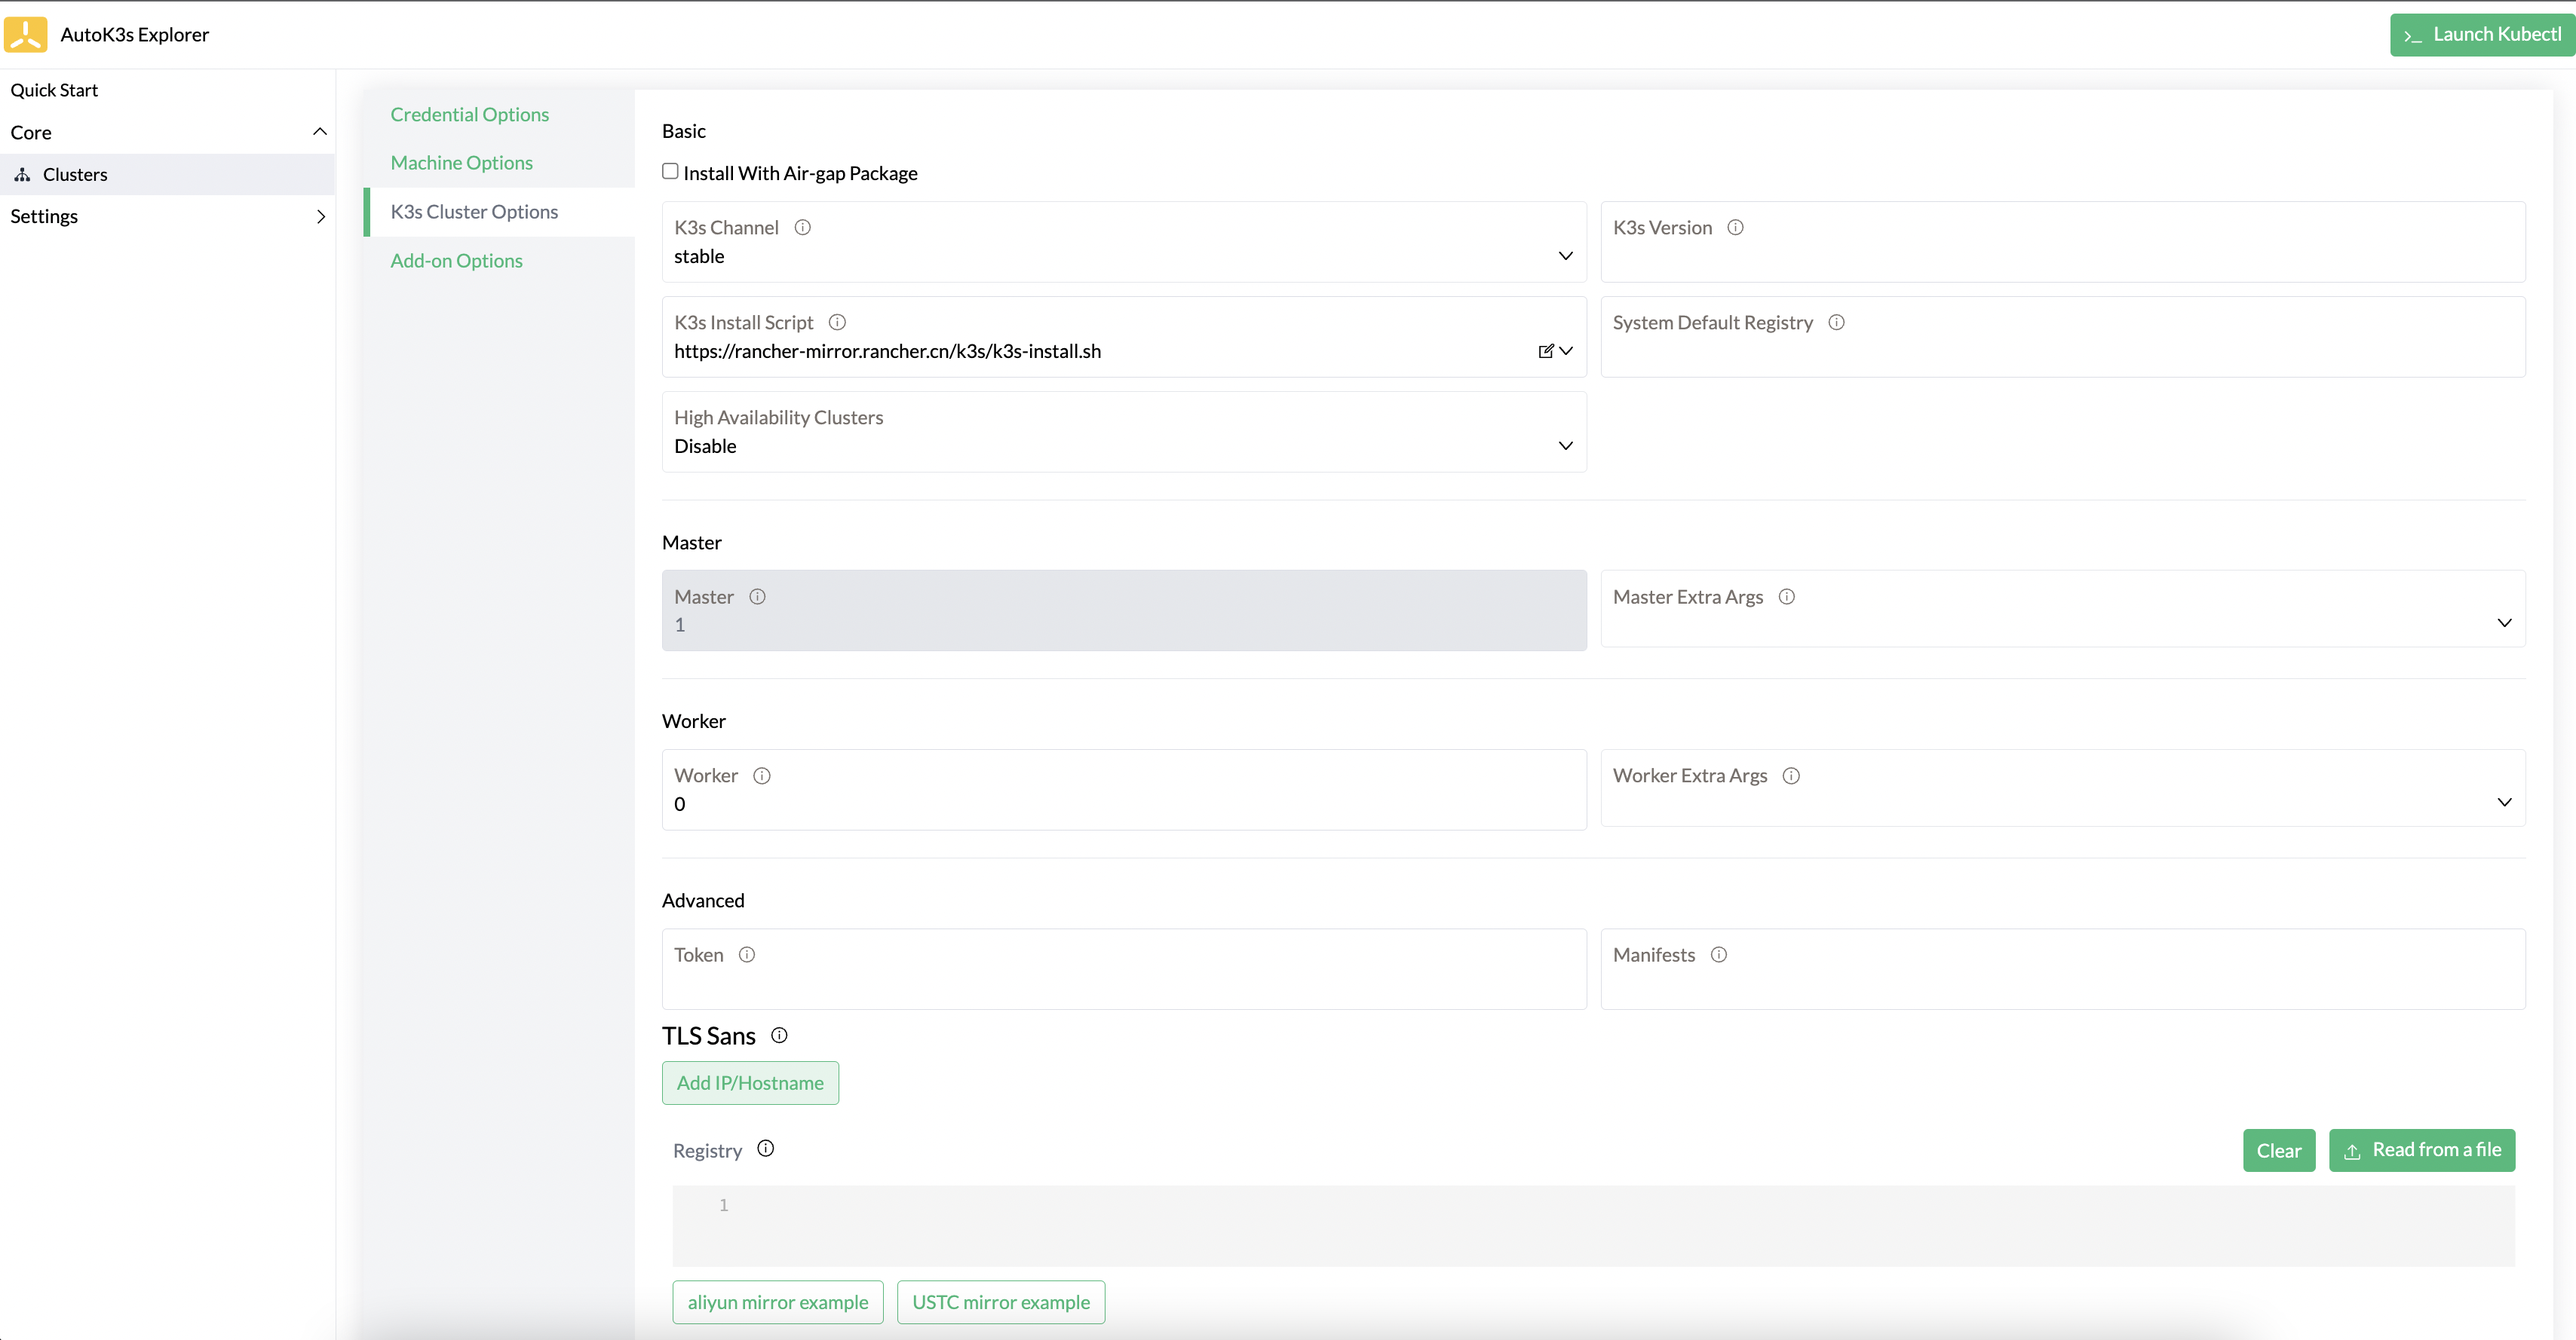
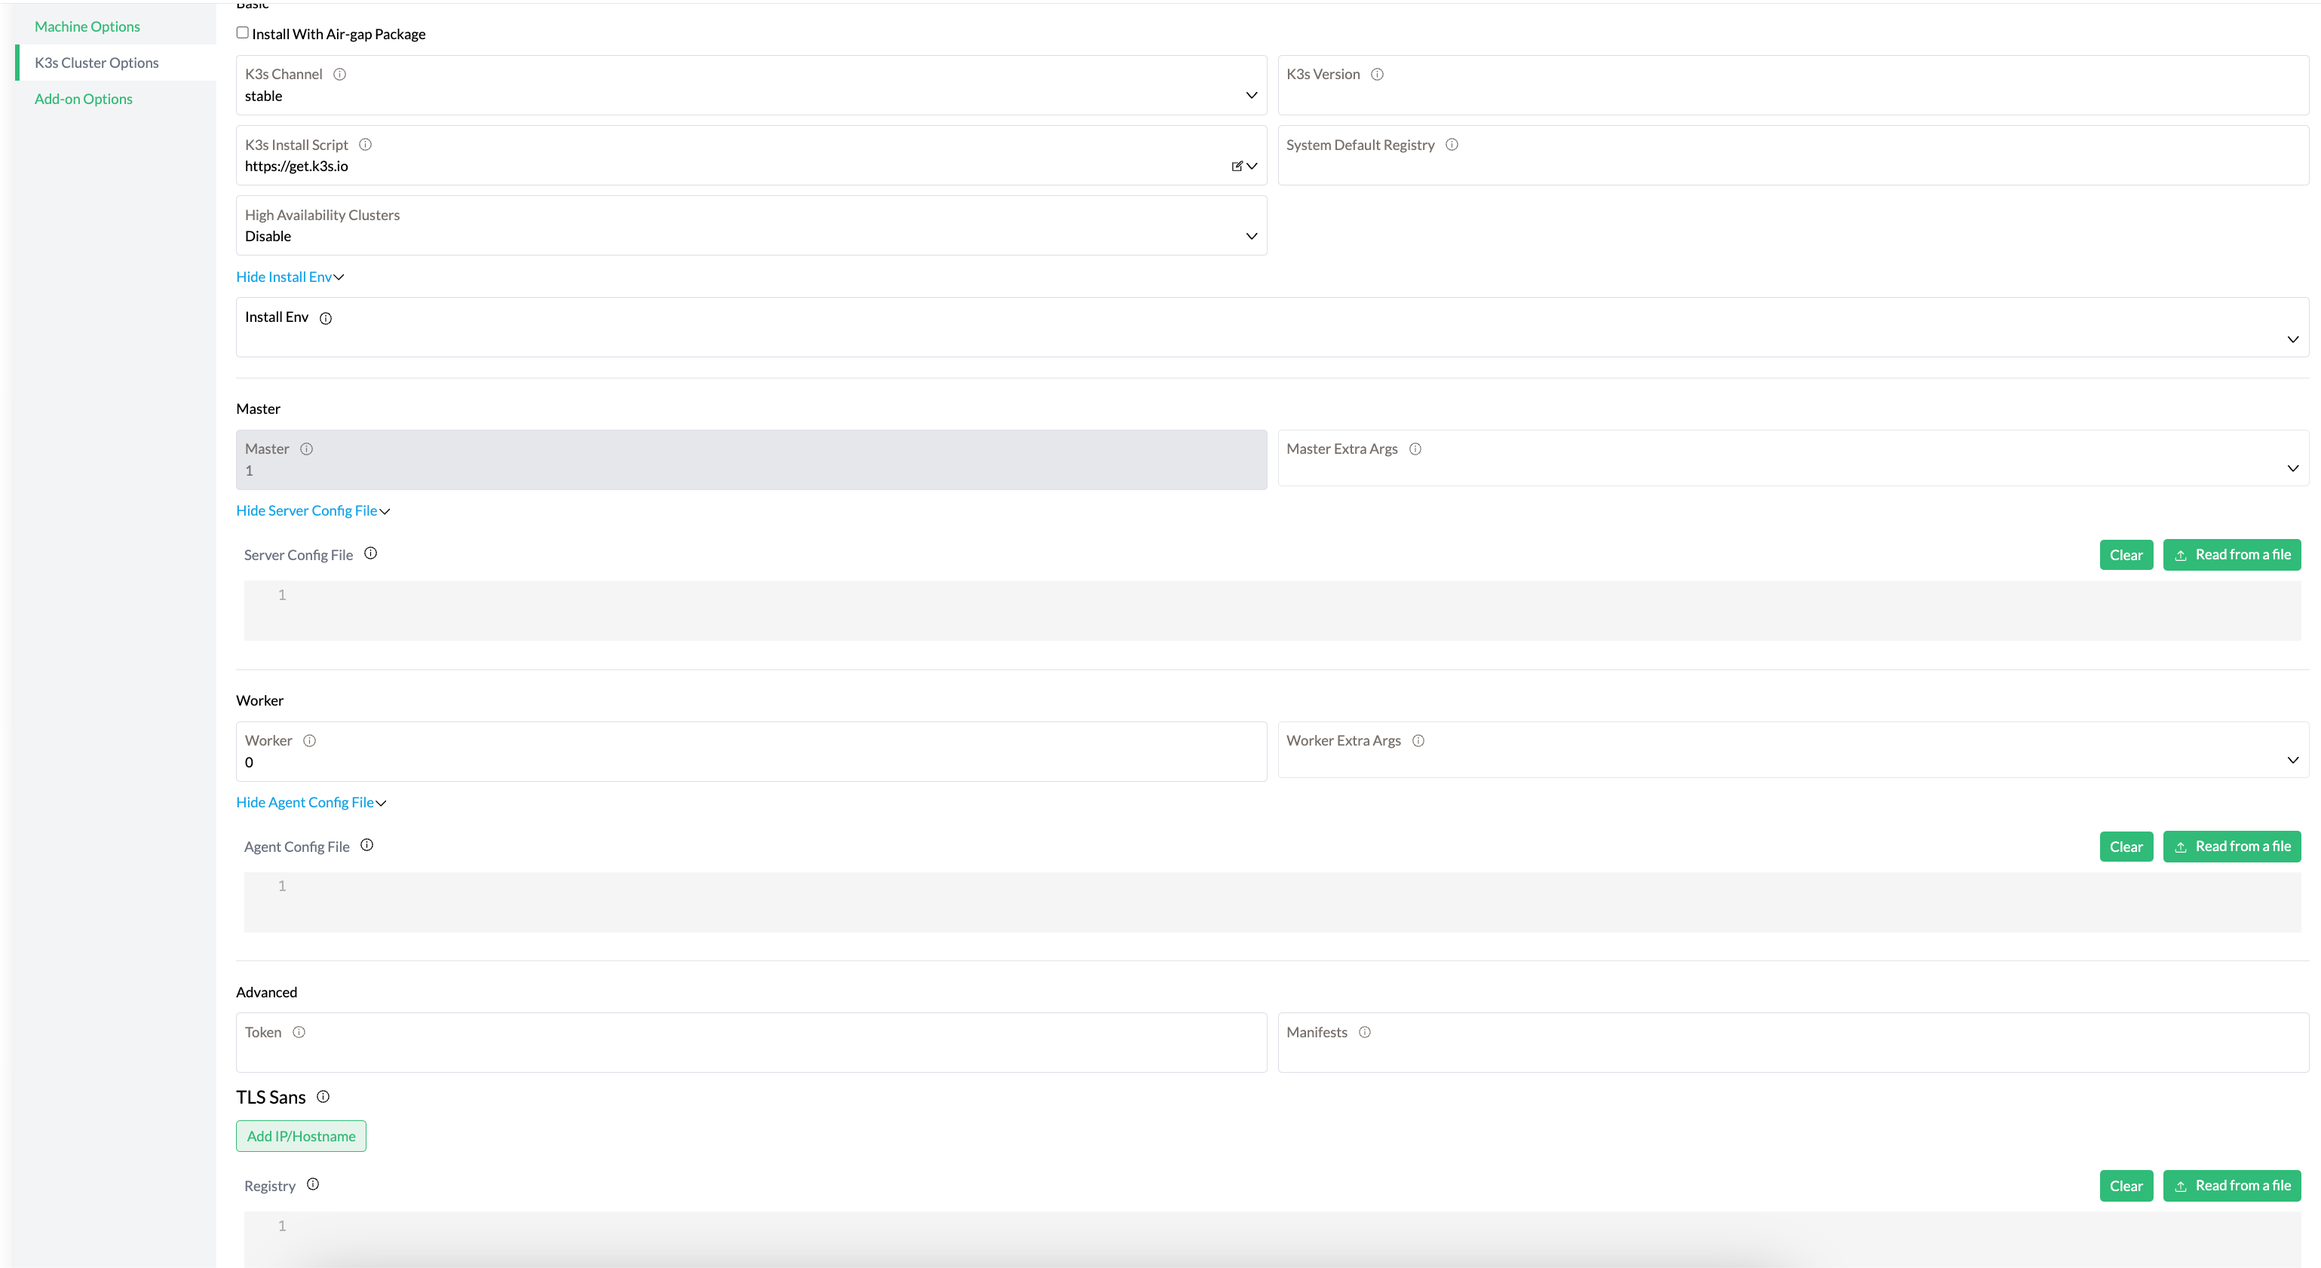
feat(docs): update docs for v0.9.3

diff --git a/docs/i18n/zh_cn/README.md b/docs/i18n/zh_cn/README.md
@@ -32,13 +32,13 @@ AutoK3s 可以支持以下云厂商，我们会根据社区反馈添加更多支
 您可以通过以下 Docker 命令，一键启动 AutoK3s 本地 UI，快速体验相关功能。
 
 ```bash
-docker run -itd --restart=unless-stopped -p 8080:8080 cnrancher/autok3s:v0.9.2
+docker run -itd --restart=unless-stopped -p 8080:8080 cnrancher/autok3s:v0.9.3
 ```
 
 如果您想要在 docker 中使用 K3d provider，那么您需要使用宿主机网络启动 AutoK3s 镜像。
 
 ```bash
-docker run -itd --restart=unless-stopped --net host -v /var/run/docker.sock:/var/run/docker.sock cnrancher/autok3s:v0.9.2
+docker run -itd --restart=unless-stopped --net host -v /var/run/docker.sock:/var/run/docker.sock cnrancher/autok3s:v0.9.3
 ```
 
 如果您是 MacOS 或者 Linux 系统，您也可以使用以下安装命令，一键安装 AutoK3s（Windows用户请前往 [Releases](https://github.com/cnrancher/autok3s/releases) 页面下载对应的程序）。
@@ -81,19 +81,19 @@ autok3s -d create -p aws --name myk3s --master 1 --worker 1
 
 ## 升级
 
-如果您使用 Docker 命令一键启动 AutoK3s 本地 UI，从 `v0.4.0` 升级到 `v0.9.2` 需要进行如下操作以保证历史数据的迁移。
+如果您使用 Docker 命令一键启动 AutoK3s 本地 UI，从 `v0.4.0` 升级到 `v0.9.3` 需要进行如下操作以保证历史数据的迁移。
 
 ```bash
 docker cp <old-container>:/root/.autok3s .
 docker rm -f <old-container>
-docker run -itd --restart=unless-stopped -p 8080:8080 -v $PWD/.autok3s:/root/.autok3s cnrancher/autok3s:v0.9.2
+docker run -itd --restart=unless-stopped -p 8080:8080 -v $PWD/.autok3s:/root/.autok3s cnrancher/autok3s:v0.9.3
 ```
 
 在 `v0.4.1` 以后的版本，可以直接通过 `--volumes-from` 来保证历史数据的迁移。
 
 ```bash
 docker stop <old-container>
-docker run -itd --restart=unless-stopped -p 8080:8080 --volumes-from <old-container> cnrancher/autok3s:v0.9.2
+docker run -itd --restart=unless-stopped -p 8080:8080 --volumes-from <old-container> cnrancher/autok3s:v0.9.3
 ```
 
 ## 开发者指南
@@ -114,9 +114,11 @@ AutoK3s是 100% 开源的软件，该项目相关的源码包括：
 - https://github.com/cnrancher/autok3s-ui
 - https://github.com/cnrancher/kube-explorer
 
+由 SUSE(Rancher E&I) Team 贡献
+
 # License
 
-Copyright (c) 2023 [Rancher Labs, Inc.](http://rancher.com)
+Copyright (c) 2024 [SUSE](https://www.suse.com/)
 
 Licensed under the Apache License, Version 2.0 (the "License");
 you may not use this file except in compliance with the License.

diff --git a/docs/i18n/en_us/alibaba/README.md b/docs/i18n/en_us/alibaba/README.md
@@ -163,6 +163,41 @@ Run the command below and create an HA K3s cluster with an external database:
 autok3s -d create -p alibaba --name myk3s --master 2 --datastore "mysql://<user>:<password>@tcp(<ip>:<port>)/<db>"
 ```
 
+### Advanced Settings
+
+The AutoK3s supports more advanced settings to customize your K3s cluster.
+
+#### Installation Environments
+
+If you want to add more installation environments, please set the args below:
+
+```bash
+--install-env INSTALL_K3S_SKIP_SELINUX_RPM=true --install-env  INSTALL_K3S_FORCE_RESTART=true
+```
+
+> We recommend you to only use INSTALL_* parameters for this case because this is a global setting to your K3s cluster. If you want to set the K3S_* environments, please use the K3s configuration file args.
+
+#### Server/Agent Configuration File
+
+In addition to configuring K3s with environment variables and CLI arguments, K3s can also use a config file.
+
+If you want to do more customize and complex configurations for your K3s cluster, such as etcd snapshot or datastore. This arg is what you need.
+
+Here's an example of a K3s server configuration with etcd snapshot information and change the node port range.
+```yaml
+etcd-snapshot-schedule-cron: "* * * * *"
+etcd-snapshot-retention: 15
+service-node-port-range: "20000-30000"
+```
+
+Save this yaml file to your local path, such as `myk3s-server-config.yaml`. Then pass this file by the following arg:
+
+```bash
+--server-config-file /your/path/myk3s-server-config.yaml
+```
+
+If you want to set the configuration file to your agent node, use the arg `--agent-config-file /your/path/agent-config.yaml`
+
 ## Join K3s Nodes
 
 Please use `autok3s join` command to add one or more nodes for an existing K3s cluster.

diff --git a/docs/i18n/en_us/tencent/README.md b/docs/i18n/en_us/tencent/README.md
@@ -132,6 +132,41 @@ Run the command below and create an HA K3s cluster with an external database:
 autok3s -d create -p tencent --name myk3s --master 2 --datastore "mysql://<user>:<password>@tcp(<ip>:<port>)/<db>"
 ```
 
+### Advanced Settings
+
+The AutoK3s supports more advanced settings to customize your K3s cluster.
+
+#### Installation Environments
+
+If you want to add more installation environments, please set the args below:
+
+```bash
+--install-env INSTALL_K3S_SKIP_SELINUX_RPM=true --install-env  INSTALL_K3S_FORCE_RESTART=true
+```
+
+> We recommend you to only use INSTALL_* parameters for this case because this is a global setting to your K3s cluster. If you want to set the K3S_* environments, please use the K3s configuration file args.
+
+#### Server/Agent Configuration File
+
+In addition to configuring K3s with environment variables and CLI arguments, K3s can also use a config file.
+
+If you want to do more customize and complex configurations for your K3s cluster, such as etcd snapshot or datastore. This arg is what you need.
+
+Here's an example of a K3s server configuration with etcd snapshot information and change the node port range.
+```yaml
+etcd-snapshot-schedule-cron: "* * * * *"
+etcd-snapshot-retention: 15
+service-node-port-range: "20000-30000"
+```
+
+Save this yaml file to your local path, such as `myk3s-server-config.yaml`. Then pass this file by the following arg:
+
+```bash
+--server-config-file /your/path/myk3s-server-config.yaml
+```
+
+If you want to set the configuration file to your agent node, use the arg `--agent-config-file /your/path/agent-config.yaml`
+
 ## Join K3s Nodes
 
 Please use `autok3s join` command to add one or more nodes for an existing K3s cluster.

diff --git a/docs/i18n/en_us/google/README.md b/docs/i18n/en_us/google/README.md
@@ -80,6 +80,41 @@ Run the command below and create an HA K3s cluster with an external database:
 autok3s -d create -p google --name myk3s --master 2 --datastore "mysql://<user>:<password>@tcp(<ip>:<port>)/<db>"
 ```
 
+### Advanced Settings
+
+The AutoK3s supports more advanced settings to customize your K3s cluster.
+
+#### Installation Environments
+
+If you want to add more installation environments, please set the args below:
+
+```bash
+--install-env INSTALL_K3S_SKIP_SELINUX_RPM=true --install-env  INSTALL_K3S_FORCE_RESTART=true
+```
+
+> We recommend you to only use INSTALL_* parameters for this case because this is a global setting to your K3s cluster. If you want to set the K3S_* environments, please use the K3s configuration file args.
+
+#### Server/Agent Configuration File
+
+In addition to configuring K3s with environment variables and CLI arguments, K3s can also use a config file.
+
+If you want to do more customize and complex configurations for your K3s cluster, such as etcd snapshot or datastore. This arg is what you need.
+
+Here's an example of a K3s server configuration with etcd snapshot information and change the node port range.
+```yaml
+etcd-snapshot-schedule-cron: "* * * * *"
+etcd-snapshot-retention: 15
+service-node-port-range: "20000-30000"
+```
+
+Save this yaml file to your local path, such as `myk3s-server-config.yaml`. Then pass this file by the following arg:
+
+```bash
+--server-config-file /your/path/myk3s-server-config.yaml
+```
+
+If you want to set the configuration file to your agent node, use the arg `--agent-config-file /your/path/agent-config.yaml`
+
 ## Join K3s Nodes
 
 Please use `autok3s join` command to add one or more nodes for an existing K3s cluster.

diff --git a/docs/i18n/en_us/aws/README.md b/docs/i18n/en_us/aws/README.md
@@ -117,6 +117,41 @@ Run the command below and create an HA K3s cluster with an external database:
 autok3s -d create -p aws --name myk3s --master 2 --datastore "mysql://<user>:<password>@tcp(<ip>:<port>)/<db>"
 ```
 
+### Advanced Settings
+
+The AutoK3s supports more advanced settings to customize your K3s cluster.
+
+#### Installation Environments
+
+If you want to add more installation environments, please set the args below:
+
+```bash
+--install-env INSTALL_K3S_SKIP_SELINUX_RPM=true --install-env  INSTALL_K3S_FORCE_RESTART=true
+```
+
+> We recommend you to only use INSTALL_* parameters for this case because this is a global setting to your K3s cluster. If you want to set the K3S_* environments, please use the K3s configuration file args.
+
+#### Server/Agent Configuration File
+
+In addition to configuring K3s with environment variables and CLI arguments, K3s can also use a config file.
+
+If you want to do more customize and complex configurations for your K3s cluster, such as etcd snapshot or datastore. This arg is what you need.
+
+Here's an example of a K3s server configuration with etcd snapshot information and change the node port range.
+```yaml
+etcd-snapshot-schedule-cron: "* * * * *"
+etcd-snapshot-retention: 15
+service-node-port-range: "20000-30000"
+```
+
+Save this yaml file to your local path, such as `myk3s-server-config.yaml`. Then pass this file by the following arg:
+
+```bash
+--server-config-file /your/path/myk3s-server-config.yaml
+```
+
+If you want to set the configuration file to your agent node, use the arg `--agent-config-file /your/path/agent-config.yaml`
+
 ## Join K3s Nodes
 
 Please use `autok3s join` command to add one or more nodes for an existing K3s cluster.

diff --git a/docs/i18n/en_us/native/README.md b/docs/i18n/en_us/native/README.md
@@ -86,6 +86,41 @@ autok3s -d create \
     --datastore "mysql://<user>:<password>@tcp(<ip>:<port>)/<db>"
 ```
 
+### Advanced Settings
+
+The AutoK3s supports more advanced settings to customize your K3s cluster.
+
+#### Installation Environments
+
+If you want to add more installation environments, please set the args below:
+
+```bash
+--install-env INSTALL_K3S_SKIP_SELINUX_RPM=true --install-env  INSTALL_K3S_FORCE_RESTART=true
+```
+
+> We recommend you to only use INSTALL_* parameters for this case because this is a global setting to your K3s cluster. If you want to set the K3S_* environments, please use the K3s configuration file args.
+
+#### Server/Agent Configuration File
+
+In addition to configuring K3s with environment variables and CLI arguments, K3s can also use a config file.
+
+If you want to do more customize and complex configurations for your K3s cluster, such as etcd snapshot or datastore. This arg is what you need.
+
+Here's an example of a K3s server configuration with etcd snapshot information and change the node port range.
+```yaml
+etcd-snapshot-schedule-cron: "* * * * *"
+etcd-snapshot-retention: 15
+service-node-port-range: "20000-30000"
+```
+
+Save this yaml file to your local path, such as `myk3s-server-config.yaml`. Then pass this file by the following arg:
+
+```bash
+--server-config-file /your/path/myk3s-server-config.yaml
+```
+
+If you want to set the configuration file to your agent node, use the arg `--agent-config-file /your/path/agent-config.yaml`
+
 ## Join K3s Nodes
 
 Please use `autok3s join` command to add one or more nodes for an existing K3s cluster.

diff --git a/README.md b/README.md
@@ -55,10 +55,10 @@ Scenario 1 - Run with docker:
 ```bash
 # The commands will start autok3s daemon with an interactionable UI.
 # Standard Linux (Recommended)
-$ docker run -itd --restart=unless-stopped --net=host -v /var/run/docker.sock:/var/run/docker.sock cnrancher/autok3s:v0.9.2
+$ docker run -itd --restart=unless-stopped --net=host -v /var/run/docker.sock:/var/run/docker.sock cnrancher/autok3s:v0.9.3
 
 # MacOS
-$ docker run -itd --restart=unless-stopped -p 8080:8080 -v /var/run/docker.sock:/var/run/docker.sock -e DOCKER_HOST="" cnrancher/autok3s:v0.9.2
+$ docker run -itd --restart=unless-stopped -p 8080:8080 -v /var/run/docker.sock:/var/run/docker.sock -e DOCKER_HOST="" cnrancher/autok3s:v0.9.3
 ```
 
 Scenario 2 - Run with docker-compose
